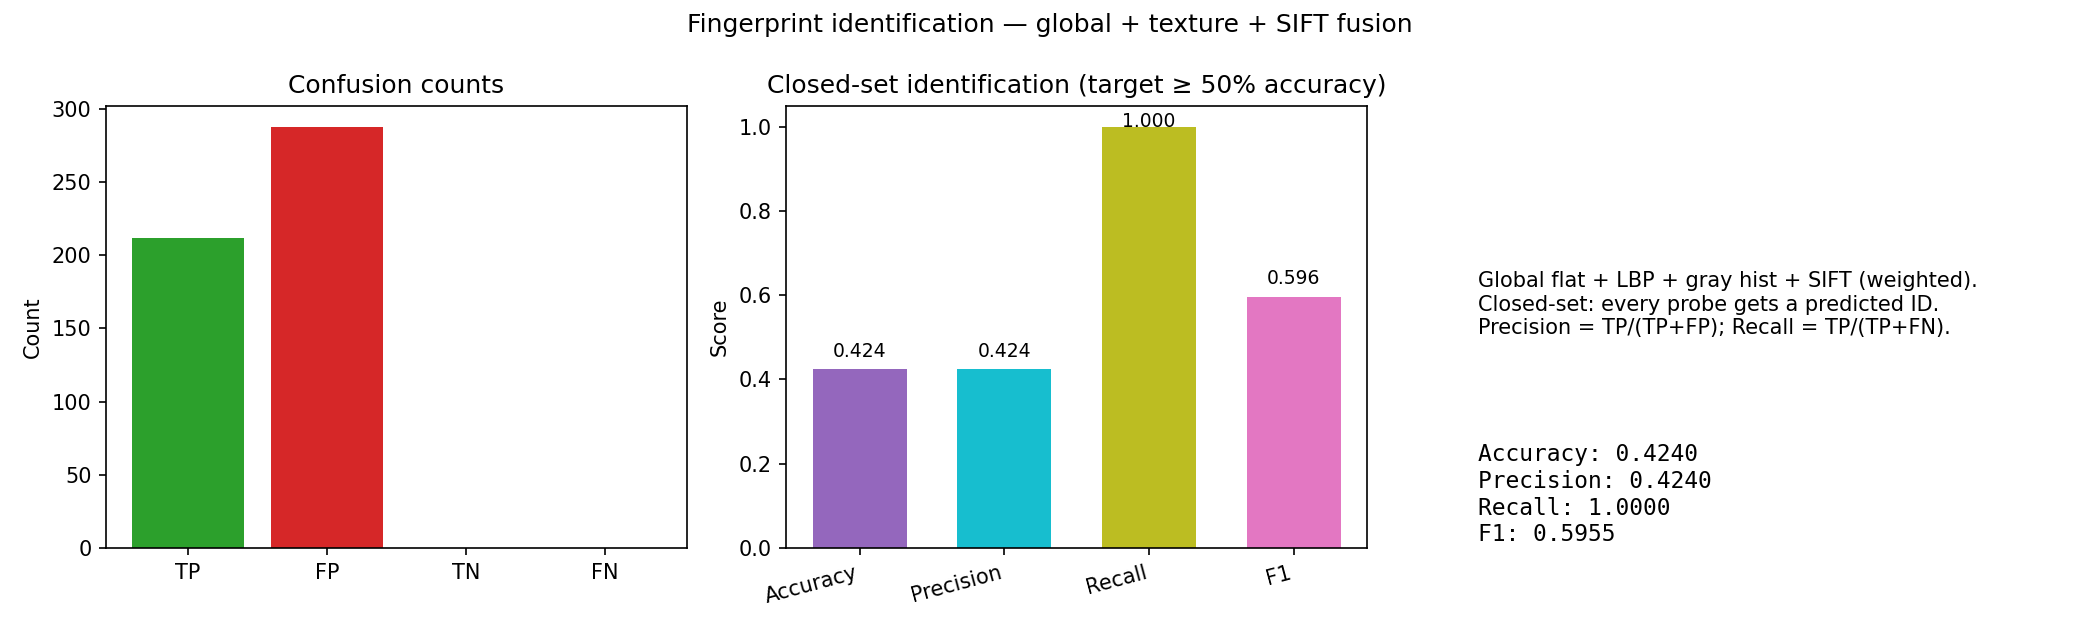
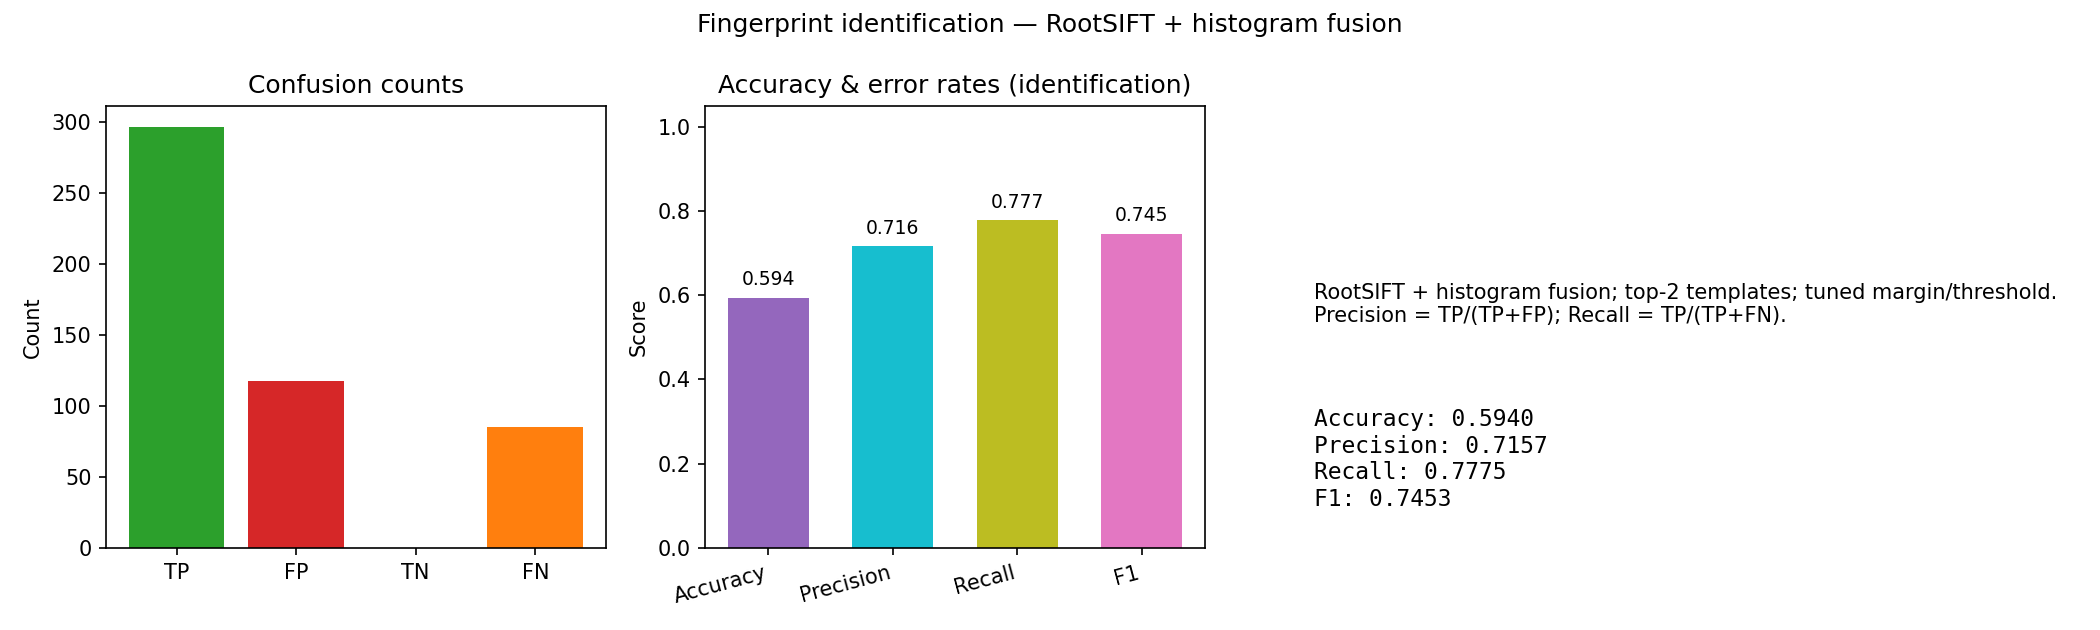
add code to output roc_curve

diff --git a/src/evaluation.py b/src/evaluation.py
@@ -1,3 +1,8 @@
+import matplotlib.pyplot as plt
+import numpy as np
+import seaborn as sns
+from sklearn.metrics import roc_curve, auc, confusion_matrix
+
 def calculate_metrics(results):
     """
     Counts the confusion matrix and calculates the accuracy.
@@ -18,3 +23,45 @@ def calculate_metrics(results):
             
     accuracy = (tp + tn) / len(results) if len(results) > 0 else 0
     return {"accuracy": accuracy, "tp": tp, "fp": fp, "tn": tn, "fn": fn}
+
+def plot_roc_curve(genuine_scores, imposter_scores, out_path):
+    """Generates an ROC curve from matching scores."""
+    y_true = [1] * len(genuine_scores) + [0] * len(imposter_scores)
+    y_scores = list(genuine_scores) + list(imposter_scores)
+    
+    fpr, tpr, _ = roc_curve(y_true, y_scores)
+    roc_auc = auc(fpr, tpr)
+
+    plt.figure(figsize=(8, 6))
+    plt.plot(fpr, tpr, color='darkorange', lw=2, label=f'ROC curve (area = {roc_auc:.2f})')
+    plt.plot([0, 1], [0, 1], color='navy', lw=2, linestyle='--')
+    plt.xlim([0.0, 1.0])
+    plt.ylim([0.0, 1.05])
+    plt.xlabel('False Positive Rate')
+    plt.ylabel('True Positive Rate')
+    plt.title('Receiver Operating Characteristic (ROC)')
+    plt.legend(loc="lower right")
+    plt.grid(alpha=0.3)
+    plt.savefig(out_path)
+    plt.close()
+
+def plot_confusion_matrix(results, out_path, num_classes=10):
+    """Generates a normalized confusion matrix for the first N classes."""
+    # Filter results for only the first N identities to keep plot clean
+    ids = sorted(list(set([r['true_id'] for r in results if r['true_id'] != "Unknown"])))[:num_classes]
+    filtered = [r for r in results if r['true_id'] in ids and r['pred_id'] in ids]
+    
+    y_true = [r['true_id'] for r in filtered]
+    y_pred = [r['pred_id'] for r in filtered]
+    
+    cm = confusion_matrix(y_true, y_pred, labels=ids)
+    cm_normalized = cm.astype('float') / cm.sum(axis=1)[:, np.newaxis]
+    
+    plt.figure(figsize=(10, 8))
+    sns.heatmap(cm_normalized, annot=True, fmt=".2f", cmap="Blues", 
+                xticklabels=ids, yticklabels=ids)
+    plt.title(f"Normalized Confusion Matrix (First {num_classes} Identities)")
+    plt.ylabel('True label')
+    plt.xlabel('Predicted label')
+    plt.savefig(out_path)
+    plt.close()

diff --git a/main.py b/main.py
@@ -8,11 +8,11 @@ matplotlib.use("Agg")
 import matplotlib.pyplot as plt
 import numpy as np
 
-from src.evaluation import calculate_metrics
+from src.evaluation import calculate_metrics, plot_roc_curve, plot_confusion_matrix
 from src.feature_extraction import extract_features
 from src.preprocessing import preprocess
 from src.utils import get_all_images, load_image
-from src.verification import identify_user
+from src.verification import identify_user, match_fingerprints
 
 
 def _project_root() -> Path:
@@ -58,8 +58,15 @@ def run_validation(test_dir: Path, database: dict) -> list:
     Returns rows for calculate_metrics: {'true_id', 'pred_id'}.
     """
     results = []
+    genuine_scores = []
+    imposter_scores =[]
     items = [i for i in get_all_images(str(test_dir)) if i["id"] is not None]
     total = len(items)
+
+    import cv2
+    bf = cv2.BFMatcher(cv2.NORM_L2, crossCheck = True)
+
+
     for n, item in enumerate(items, start=1):
         true_id = item["id"]
         image = load_image(item["path"])
@@ -72,9 +79,19 @@ def run_validation(test_dir: Path, database: dict) -> list:
             continue
         pred_id, _score = identify_user(feats, database)
         results.append({"true_id": true_id, "pred_id": pred_id})
+
+        # Score collection for ROC (Genuine vs Imposter)       
+        for person_id, templates in database.items():
+            scores = [match_fingerprints(feats, t, bf) for t in templates]
+            max_s = max(scores) if scores else 0
+            if person_id == true_id:
+                genuine_scores.append(max_s)
+            else:
+                imposter_scores.append(max_s)
+
         if n == 1 or n % 25 == 0 or n == total:
             print(f"  Probes processed: {n}/{total}", flush=True)
-    return results
+    return results, genuine_scores, imposter_scores
 
 
 def _rates(metrics: dict) -> dict:
@@ -183,8 +200,11 @@ def main() -> int:
         "Note: full train+test pass can take tens of minutes on a laptop CPU.",
         flush=True,
     )
-    results = run_validation(test_dir, identify_db)
 
+    # Get results
+    results, gen_scores, imp_scores = run_validation(test_dir, identify_db)
+    
+    # Collect metrics
     metrics = calculate_metrics(results)
     rates = _rates(metrics)
     print(
@@ -198,6 +218,13 @@ def main() -> int:
         flush=True,
     )
 
+    # New Visualizations
+    print("Generating ROC Curve and Confusion Matrix...")
+    plot_roc_curve(gen_scores, imp_scores, root / "roc_curve.png")
+    plot_confusion_matrix(results, root / "confusion_matrix.png", num_classes=10)
+
+    print(f"Figures saved: roc_curve.png and confusion_matrix.png")
+    
     plot_path = root / "evaluation_plot.png"
     plot_evaluation(metrics, plot_path)
     print(f"Saved chart: {plot_path}", flush=True)